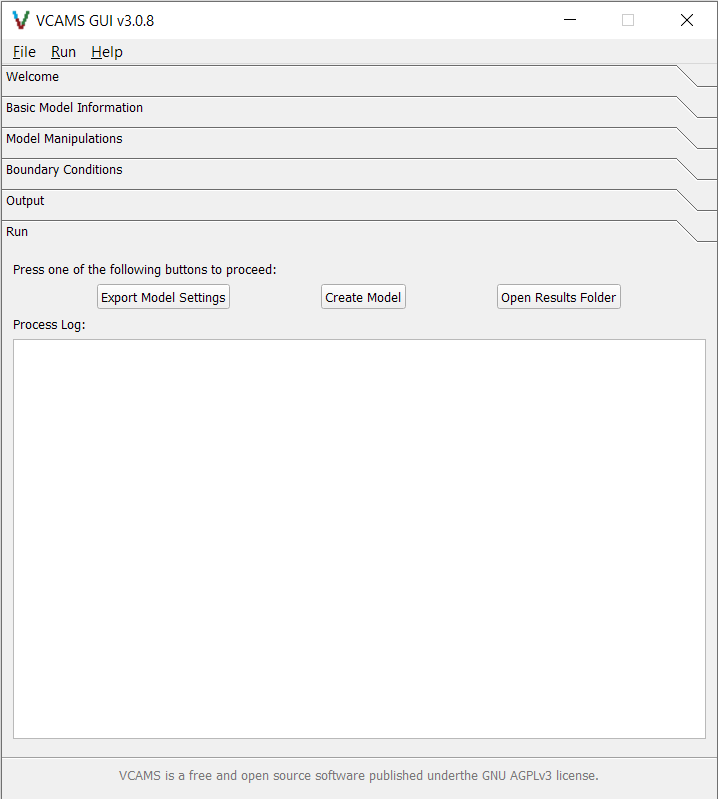
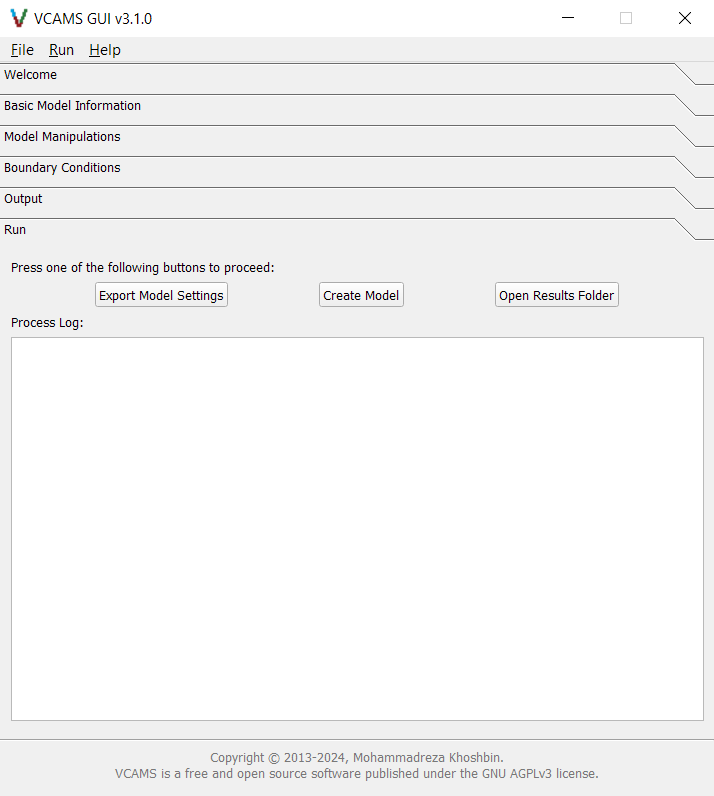
Re-checked all G examples.

diff --git a/vcams/__init__.py b/vcams/__init__.py
@@ -2,7 +2,7 @@ __author__ = 'Mohammadreza Khoshbin'
 __copyright__ = 'Copyright © 2013-2024, Mohammadreza Khoshbin.'
 __credits__ = ['Mohammadreza Khoshbin']
 __license__ = 'AGPLv3'
-__version__ = '3.0.12'
+__version__ = '3.1.0'
 __maintainer__ = 'Mohammadreza Khoshbin'
 __email__ = 'm.khoshbin@live.com'
 __status__ = 'Production'

diff --git a/gui/main_gui.py b/gui/main_gui.py
@@ -1,7 +1,7 @@
 # noqa: E402
 
 from gui_helper import splash_update_text, splash_close
-import main_gui_resources
+import main_gui_resources  # Do NOT remove. It is used for .qrc files.
 
 splash_update_text("Loading standard Python libraries...")
 import logging

diff --git a/docs/source/examples/example-g5.rst b/docs/source/examples/example-g5.rst
@@ -1,43 +1,45 @@
-Example G-3: Requesting Node Sets
-=================================
+Example G-5: 2D Part with a Randomly Distributed Second Phase
+=============================================================
 In this example, the graphical user interface (GUI) is used to create
-a filled 2D part in which the node sets on the boundary are output.
-This example mirrors :doc:`Example B-1 <example-b1>`.
+a 2D part in which in which a second phase is randomly distributed in the background.
+This example mirrors :doc:`Example C-3 <example-c3>`.
 
-The structure is 3D with a shape of 50×75×100 voxels and
+The structure is 2D with a shape of 100×100 voxels and
 has a base material of 1 and a voxel size of 0.02 units in all directions.
 The parameter *log_debug* is set to *True* for demonstration purposes.
 
-Afterwards, the node sets are requested in the *Boundary Conditions* tab.
+Afterwards, the parameters for the second phase are entered in the *Model Manipulations* tab.
+The necessary parameters are *Second Phase Fraction* which is set to 0.42 which means 42%,
+and *Second Phase Material Code* which is set to 2 resulting in the second phase having a material code of 2.
 
 The part is then exported to an Abaqus™ input file in *3D* mode with *C3D8R* elements.
 The *Non-Empty* elements (which happens to be the whole model), are requested to be exported.
 
 The following figures show the various tabs of the GUI in this example:
 
-.. figure:: /g-examples/ex_g3_nodesets_only_1.png
+.. figure:: /g-examples/ex_g5_random_2d_part_1.png
    :align: center
    :width: 75%
 
-   The GUI's "Basic Model Information" tab for Example G-3.
+   The GUI's "Basic Model Information" tab for Example G-4.
 
-.. figure:: /g-examples/ex_g3_nodesets_only_2.png
+.. figure:: /g-examples/ex_g5_random_2d_part_2.png
    :align: center
    :width: 75%
 
-   The GUI's "Model Manipulations" tab for Example G-3.
+   The GUI's "Model Manipulations" tab for Example G-4.
 
-.. figure:: /g-examples/ex_g3_nodesets_only_3.png
+.. figure:: /g-examples/ex_g5_random_2d_part_3.png
    :align: center
    :width: 75%
 
-   The GUI's "Boundary Conditions" tab for Example G-3.
+   The GUI's "Boundary Conditions" tab for Example G-4.
 
-.. figure:: /g-examples/ex_g3_nodesets_only_4.png
+.. figure:: /g-examples/ex_g5_random_2d_part_4.png
    :align: center
    :width: 75%
 
-   The GUI's "Output" tab for Example G-3.
+   The GUI's "Output" tab for Example G-4.
 
 After filling the form, the model can be created by pressing the *"Create Model"* button.
 The screen automatically switches to the *Run* tab and will show the program log.
@@ -51,4 +53,4 @@ to a *.log* file in the output folder.
 
 Finally, a configuration file based on the examples will be written to the output folder
 and can be used to import the model in the future.
-:download:`It will look like this. </g-examples/ex_g3_nodesets_only.vcams>`
+:download:`It will look like this. </g-examples/ex_g5_random_2d_part.vcams>`

diff --git a/docs/source/examples/example-g6.rst b/docs/source/examples/example-g6.rst
@@ -1,12 +1,10 @@
-Example G-6: Planar Composite (Circular Inclusions) II
+Example G-6: Planar Composite with Circular Inclusions
 ======================================================
 In this example, the graphical user interface (GUI) is used to create
-a filled 2D part in which circular shapes of a different material are present.
-The final structure can be a 2D model of a composite.
-This example is similar to :doc:`Example G-5 <example-g5>`,
-except that the shapes are of different materials.
+a filled 2D part in which circular shapes of different materials are present.
+The final structure is a 2D model of a composite.
 
-The structure is two dimensional with a shape of 50×100 voxels and
+The structure is two dimensional with a shape of 50×50 voxels and
 has a base material of 1 and a voxel size of 0.02 units in all directions.
 The parameter *log_debug* is set to *True* for demonstration purposes.
 
@@ -21,25 +19,25 @@ The *Non-Empty* elements are requested to be exported.
 
 The following figures show the various tabs of the GUI in this example:
 
-.. figure:: /g-examples/ex_g6_shape_array_2d_2_1.png
+.. figure:: /g-examples/ex_g6_shape_array_2d_1.png
    :align: center
    :width: 75%
 
    The GUI's "Basic Model Information" tab for Example G-6.
 
-.. figure:: /g-examples/ex_g6_shape_array_2d_2_2.png
+.. figure:: /g-examples/ex_g6_shape_array_2d_2.png
    :align: center
    :width: 75%
 
    The GUI's "Model Manipulations" tab for Example G-6.
 
-.. figure:: /g-examples/ex_g6_shape_array_2d_2_3.png
+.. figure:: /g-examples/ex_g6_shape_array_2d_3.png
    :align: center
    :width: 75%
 
    The GUI's "Boundary Conditions" tab for Example G-6.
 
-.. figure:: /g-examples/ex_g6_shape_array_2d_2_4.png
+.. figure:: /g-examples/ex_g6_shape_array_2d_4.png
    :align: center
    :width: 75%
 
@@ -57,14 +55,14 @@ to a *.log* file in the output folder.
 
 Finally, a configuration file based on the examples will be written to the output folder
 and can be used to import the model in the future.
-:download:`It will look like this. </g-examples/ex_g6_shape_array_2d_2.vcams>`
+:download:`It will look like this. </g-examples/ex_g6_shape_array_2d.vcams>`
 
-The final model looks like :numref:`ex_g6_shape_array_2d_2_0`.
+The final model looks like :numref:`ex_g6_shape_array_2d_0`.
 Note that the stepping visible in the part is due to the low resolution of the model.
 A bigger model will result in a better shape.
 
-.. figure:: /g-examples/ex_g6_shape_array_2d_2_0.png
-   :name: ex_g6_shape_array_2d_2_0
+.. figure:: /g-examples/ex_g6_shape_array_2d_0.png
+   :name: ex_g6_shape_array_2d_0
    :align: center
    :alt: Final model of Example G-6. Different materials are shown in different colors
          and the empty space is shown in white.

diff --git a/docs/source/examples/example-g4.rst b/docs/source/examples/example-g4.rst
@@ -1,43 +1,43 @@
-Example G-3: Requesting Node Sets
-=================================
+Example G-4: Requesting Periodic BCs
+====================================
 In this example, the graphical user interface (GUI) is used to create
-a filled 2D part in which the node sets on the boundary are output.
-This example mirrors :doc:`Example B-1 <example-b1>`.
+a filled 2D part with periodic boundary conditions.
+This example mirrors :doc:`Example B-3 <example-b3>`.
 
-The structure is 3D with a shape of 50×75×100 voxels and
+The structure is two dimensional with a shape of 50×100 voxels and
 has a base material of 1 and a voxel size of 0.02 units in all directions.
 The parameter *log_debug* is set to *True* for demonstration purposes.
 
-Afterwards, the node sets are requested in the *Boundary Conditions* tab.
+Afterwards, the periodic boundary conditions is requested in the *Boundary Conditions* tab.
 
-The part is then exported to an Abaqus™ input file in *3D* mode with *C3D8R* elements.
+The part is then exported to an Abaqus™ input file in *2D* mode with *CPE4R* elements.
 The *Non-Empty* elements (which happens to be the whole model), are requested to be exported.
 
 The following figures show the various tabs of the GUI in this example:
 
-.. figure:: /g-examples/ex_g3_nodesets_only_1.png
+.. figure:: /g-examples/ex_g4_pbc_1.png
    :align: center
    :width: 75%
 
-   The GUI's "Basic Model Information" tab for Example G-3.
+   The GUI's "Basic Model Information" tab for Example G-4.
 
-.. figure:: /g-examples/ex_g3_nodesets_only_2.png
+.. figure:: /g-examples/ex_g4_pbc_2.png
    :align: center
    :width: 75%
 
-   The GUI's "Model Manipulations" tab for Example G-3.
+   The GUI's "Model Manipulations" tab for Example G-4.
 
-.. figure:: /g-examples/ex_g3_nodesets_only_3.png
+.. figure:: /g-examples/ex_g4_pbc_3.png
    :align: center
    :width: 75%
 
-   The GUI's "Boundary Conditions" tab for Example G-3.
+   The GUI's "Boundary Conditions" tab for Example G-4.
 
-.. figure:: /g-examples/ex_g3_nodesets_only_4.png
+.. figure:: /g-examples/ex_g4_pbc_4.png
    :align: center
    :width: 75%
 
-   The GUI's "Output" tab for Example G-3.
+   The GUI's "Output" tab for Example G-4.
 
 After filling the form, the model can be created by pressing the *"Create Model"* button.
 The screen automatically switches to the *Run* tab and will show the program log.
@@ -51,4 +51,4 @@ to a *.log* file in the output folder.
 
 Finally, a configuration file based on the examples will be written to the output folder
 and can be used to import the model in the future.
-:download:`It will look like this. </g-examples/ex_g3_nodesets_only.vcams>`
+:download:`It will look like this. </g-examples/ex_g4_pbc.vcams>`
